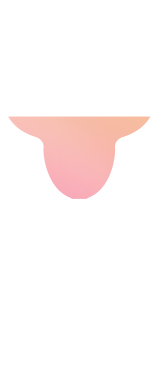
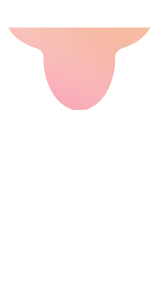
修改选中酒的表现

Changed region(s): [[0.0503, 0.0934, 0.956, 0.5294]]

diff --git a/src/view/action/ActionSelect.ts b/src/view/action/ActionSelect.ts
@@ -10,11 +10,9 @@ class ActionSelect extends ActionTimerSceneBase {
     }
 
     protected onSkinName(): void {
-        if (this.paramList[3] === "0") {
-            this.skinName = skins.ActionCheckDrink;
-        } else if (this.paramList[3] === "1") {
+        if (this.paramList[3] === "1") {
             this.skinName = skins.ActionSelectWho;
-        } else {
+        } else if (this.paramList[3] === "0") {
             this.skinName = skins.ActionCheckDrink;
         }
     }
@@ -61,7 +59,20 @@ class ActionSelect extends ActionTimerSceneBase {
         const index = button["index"];
         this.answerID = index + 1;
         this.isSelected = true;
-        this[`selected${index}`].visible = true;
+        const selected = this[`selected${index}`];
+        selected.visible = true;
+        if (this.paramList[3] === "0") {
+            const mc = new egret.MovieClip();
+            const mcFactory = new egret.MovieClipDataFactory();
+            mcFactory.clearCache();
+            mcFactory.mcDataSet = RES.getRes("music_effect_json");
+            mcFactory.texture = RES.getRes("music_effect_png");
+            mc.movieClipData = mcFactory.generateMovieClipData("action");
+            mc.gotoAndPlay(1, -1);
+            mc.x = selected.width / 2;
+            mc.y = selected.height / 2;
+            selected.addChild(mc);
+        }
         for (let i: number = 0; i < this.ITEM_COUNT; i++) {
             this[`button${i}`].touchEnabled = false;
         }
